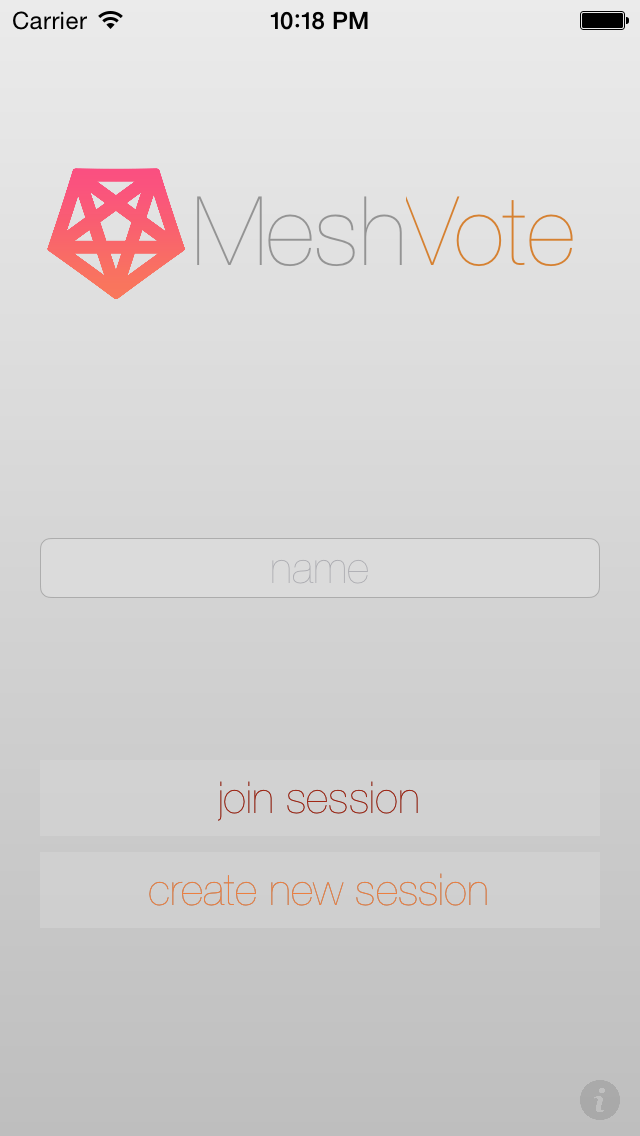
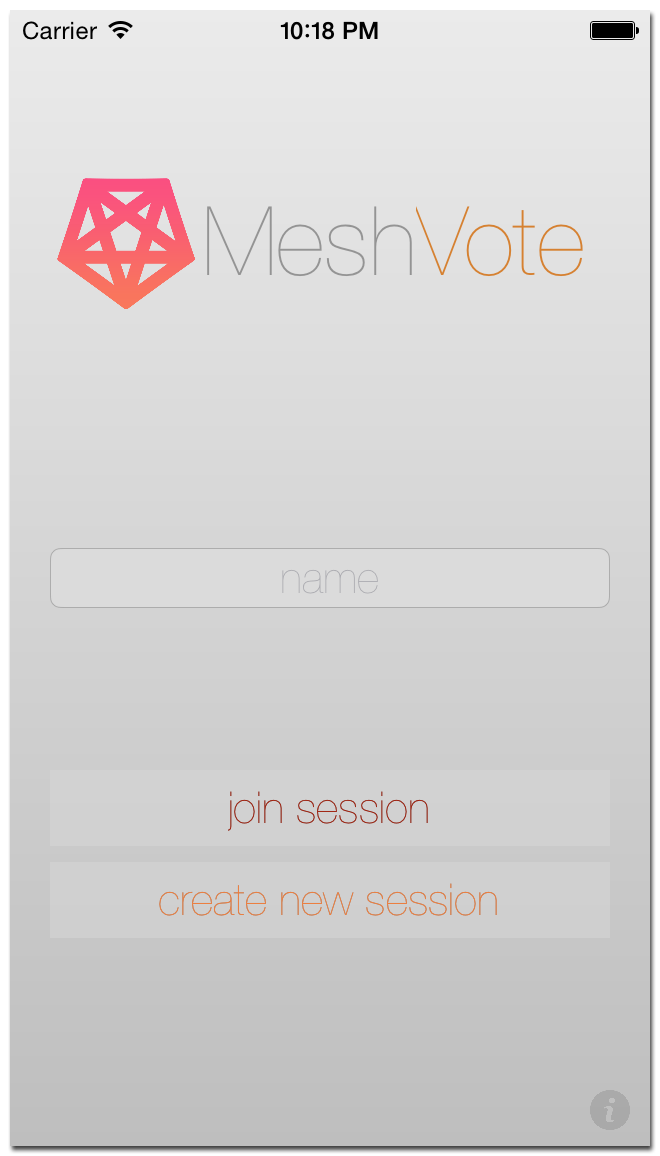
added shadows to screenshots

diff --git a/README.md b/README.md
@@ -7,10 +7,11 @@ MeshVote is a bluetooth powered voting system for iOS 7 and above.  It enables u
 
 ## Modes of operation
 
-poll mode
+### poll mode
   - host does not supply "correct" answers
   - results will show vote percentages of each answer choice
-quiz mode
+
+### quiz mode
   - each question has a "correct" answer
   - results will show overall grade of each peer, along with overall statistics
   - results also show percentage of peers which ansered correctly per question, aloowing the host to see which questions were the toughest
@@ -47,6 +48,7 @@ MeshVote has two basic functions:
 
   <img src="screenshots/CreateQuestion.png" height="600px" />
 
+  - if you are creating a quiz, you can select which answer is correct by tapping the circle to the right
   - once you have added your questions, you can begin your poll (tip: pull down on the screen to see how many peers are currently connected)
   
   <img src="screenshots/QuestionListFull.png" height="600px" />
@@ -58,14 +60,31 @@ MeshVote has two basic functions:
   - while the poll is running, you can see live resuts, as they come in
   - when the poll is finished, you will be prompted will the results summary.  The presentation of the results depends on which mode was selected (ie. poll or quiz)
 
+### Quiz results summary
+
   <img src="screenshots/ResultsQuiz.png" height="600px" />
-  
-  Quiz results summary
+
+###  Poll results summary
   
   <img src="screenshots/ResultsPoll.png" height="600px" />
-  
-  Poll results summary
 
+
+
+
+
+
+
+
+
+
+
+### Disclaimer
+
+This software provides no warranty.
+
+### Disclaimer to employers
+
+This is my first iOS application.
 
 
 
